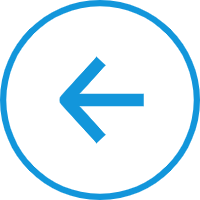
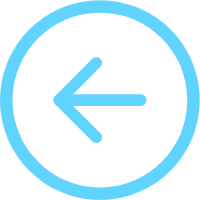
ai辅助样式修改完成

Changed region(s): [[0.0, 0.0, 1.0, 1.0], [0.24, 0.27, 0.75, 0.72]]

diff --git a/src/views/ai-help/index.vue b/src/views/ai-help/index.vue
@@ -1,5 +1,14 @@
 <template>
   <div class="ai-container">
+    <!-- 返回按钮 -->
+    <el-tooltip class="box-item" content="返回" placement="left">
+      <img
+        class="return-img"
+        src="@/assets/return-circle.png"
+        alt=""
+        @click="handleReturn"
+      />
+    </el-tooltip>
     <div class="flex-container">
       <div
         class="card"
@@ -7,7 +16,9 @@
         :key="item.name"
         @click="handleCardClick(item)"
       >
-        {{ item.name }}
+        <div class="card-content">
+          {{ item.name }}
+        </div>
       </div>
     </div>
   </div>
@@ -19,27 +30,37 @@ import { useRouter } from 'vue-router';
 const router = useRouter();
 
 const aiTools = [
-  { name: 'Deepseek', path: '/deepseek' },
-  { name: '豆包', path: '/doubao' },
-  { name: 'Kimi', path: '/kimi' },
-  { name: '即时', path: '/instant' },
-  { name: '可灵', path: '/keling' },
-  { name: '天工', path: '/tiangong' },
-  { name: 'Aippt', path: '/aippt' },
-  { name: 'Processon', path: '/processon' },
-  { name: '讯飞 ai', path: '/xunfei' },
+  { name: 'Deepseek', url: 'https://chat.deepseek.com/' },
+  { name: '豆包', url: 'https://www.doubao.com/' },
+  { name: 'Kimi', url: 'https://kimi.moonshot.cn/' },
+  { name: '即时', url: 'https://instant.ai/' },
+  { name: '可灵', url: 'https://www.keling.ai/' },
+  { name: '天工', url: 'https://tiangong.aliyun.com/' },
+  { name: 'Aippt', url: 'https://www.aippt.cn/' },
+  { name: 'Processon', url: 'https://www.processon.com/' },
+  { name: '讯飞 ai', url: 'https://xinghuo.xfyun.cn/' },
 ];
 
 const handleCardClick = (item) => {
-  router.push(item.path);
+  window.open(item.url, '_blank');
 };
-
 const handleReturn = () => {
   router.back();
 };
 </script>
 
 <style lang="less" scoped>
+.return-img {
+  position: fixed;
+  top: 20px;
+  right: 30px;
+  cursor: pointer;
+  z-index: 1000;
+  height: 40px;
+  &:hover {
+    transform: scale(1.1);
+  }
+}
 .ai-container {
   height: 100vh;
   background-color: rgba(0, 53, 127, 0.9);
@@ -58,30 +79,42 @@ const handleReturn = () => {
 
 .card {
   flex: 0 0 calc(33.333% - 27px); // 调整宽度计算以适应新的间距
-  background-color: #1890ff;
-  color: white;
-  padding: 40px;
+  background-color: rgb(0, 53, 127);
+  color: #61d3ff;
+  // padding: 40px;
   border-radius: 8px;
   text-align: center;
   cursor: pointer;
   transition: all 0.3s ease;
   font-size: 16px;
-  height: 70px;
+  height: 90px;
   display: flex;
   align-items: center;
   justify-content: center;
-  box-shadow: 0 2px 4px rgba(0, 0, 0, 0.1);
+  // box-shadow: inset 0px 0px 40px 0px rgba(108, 200, 255, 0.5);
 
   &:hover {
-    transform: translateY(-2px);
-    box-shadow: 0 4px 8px rgba(0, 0, 0, 0.2);
-    background-color: #40a9ff;
+    transform: scale(1.1);
+    transition: all 0.3s ease;
+    color: #fff;
+    // box-shadow: 0 4px 8px rgba(0, 0, 0, 0.2);
+    // background-color: #40a9ff;
   }
 
   &:active {
     transform: translateY(0);
-    background-color: #096dd9;
+    // background-color: #096dd9;
   }
+}
+.card-content {
+  padding: 40px;
+  width: 100%;
+  height: 90px;
+  box-shadow: inset 0px 0px 40px 0px rgba(108, 200, 255, 0.5);
+  background: rgba(73, 147, 251, 0.1);
+  display: flex;
+  align-items: center;
+  justify-content: center;
 }
 
 // 响应式设计
